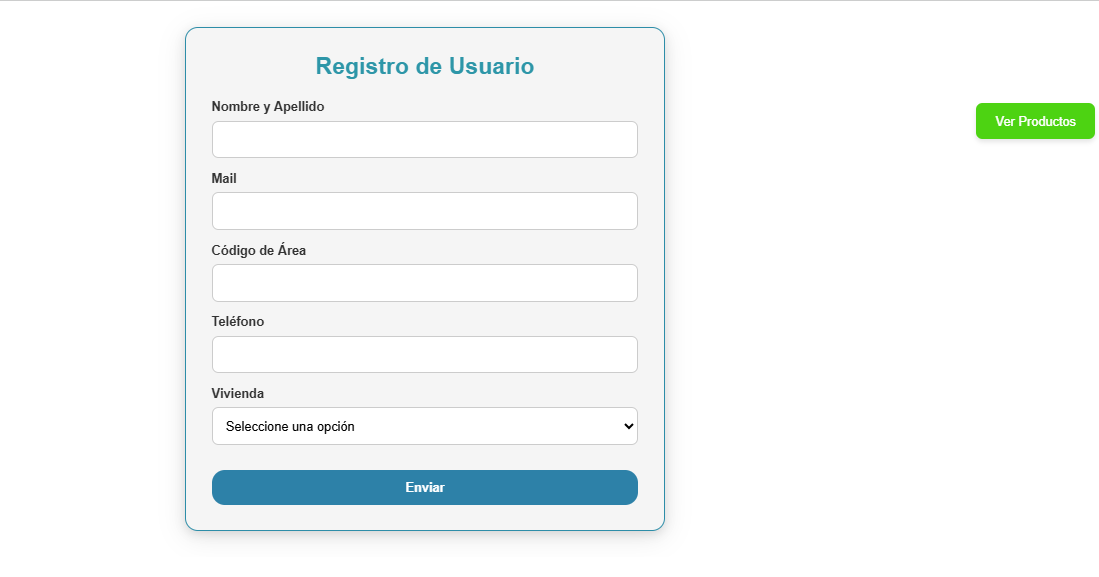
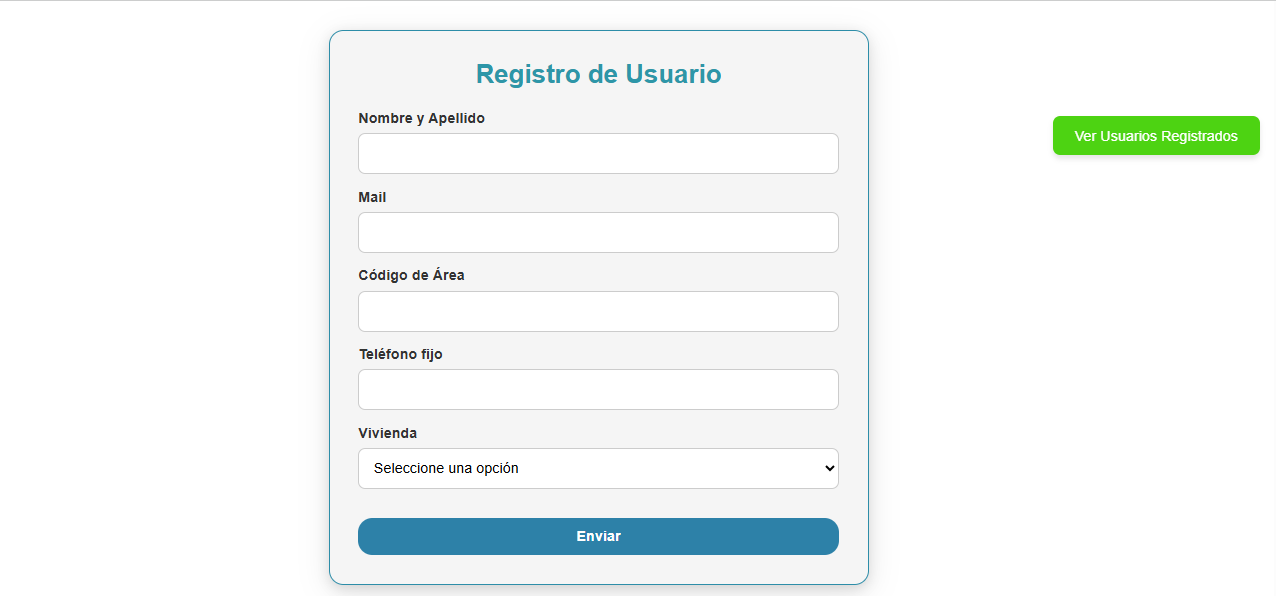
[modify] se modifican las imagen en README.md

diff --git a/src/components/Form.tsx b/src/components/Form.tsx
@@ -9,7 +9,7 @@ import { Select } from "./fields/Select";
 import styles from "./Form.module.css";
 import Swal from "sweetalert2";
 import { useEffect, useState } from "react";
-import { Modal } from "./modal/modal"; // Importamos el componente Modal
+import { Modal } from "./modal/modal"; 
 
 type FormValues = {
   [key: string]: string | number | boolean;
@@ -115,9 +115,9 @@ export default function Form() {
 
   return (
     <div className={styles.container}>
-      {/* Botón "Ver Productos" */}
+      
       <button type="button" onClick={openModal} className={styles.viewButton}>
-        Ver Productos
+        Ver Usuarios Registrados
       </button>
 
       {/* Formulario */}
@@ -140,7 +140,7 @@ export default function Form() {
       <Modal
         isOpen={isModalOpen}
         onClose={closeModal}
-        data={getStoredData()} // Usa la función getStoredData
+        data={getStoredData()} 
         fields={formJson.fields}
       />
     </div>

diff --git a/src/components/modal/modal.tsx b/src/components/modal/modal.tsx
@@ -21,7 +21,7 @@ export const Modal = ({ isOpen, onClose, data, fields }: ModalProps) => {
   return (
     <div className={styles.modalOverlay}>
       <div className={styles.modalContent}>
-        <h3 className={styles.title}>Productos Guardados</h3>
+        <h3 className={styles.title}>Usuarios Guardados</h3>
         <table className={styles.table}>
           <thead>
             <tr>

diff --git a/README.md b/README.md
@@ -53,8 +53,10 @@ Este proyecto consiste en una aplicación web desarrollada con **Next.js** y **R
 
 
 ![Error ejemplo 1](./public/pantalla3.png)
-![Error ejemplo 2](./public/pantalla4.png)
-![Error ejemplo 3](./public/pantalla5.png)
+![Error ejemplo 2](./public/pantalla7.png)
+![Error ejemplo 3](./public/pantalla4.png)
+![Error ejemplo 4](./public/pantalla5.png)
+![Error ejemplo 5](./public/pantalla6.png)
 
 ### Almacenamiento y Visualización
 - Una vez enviados, los datos se guardan en `localStorage`:
